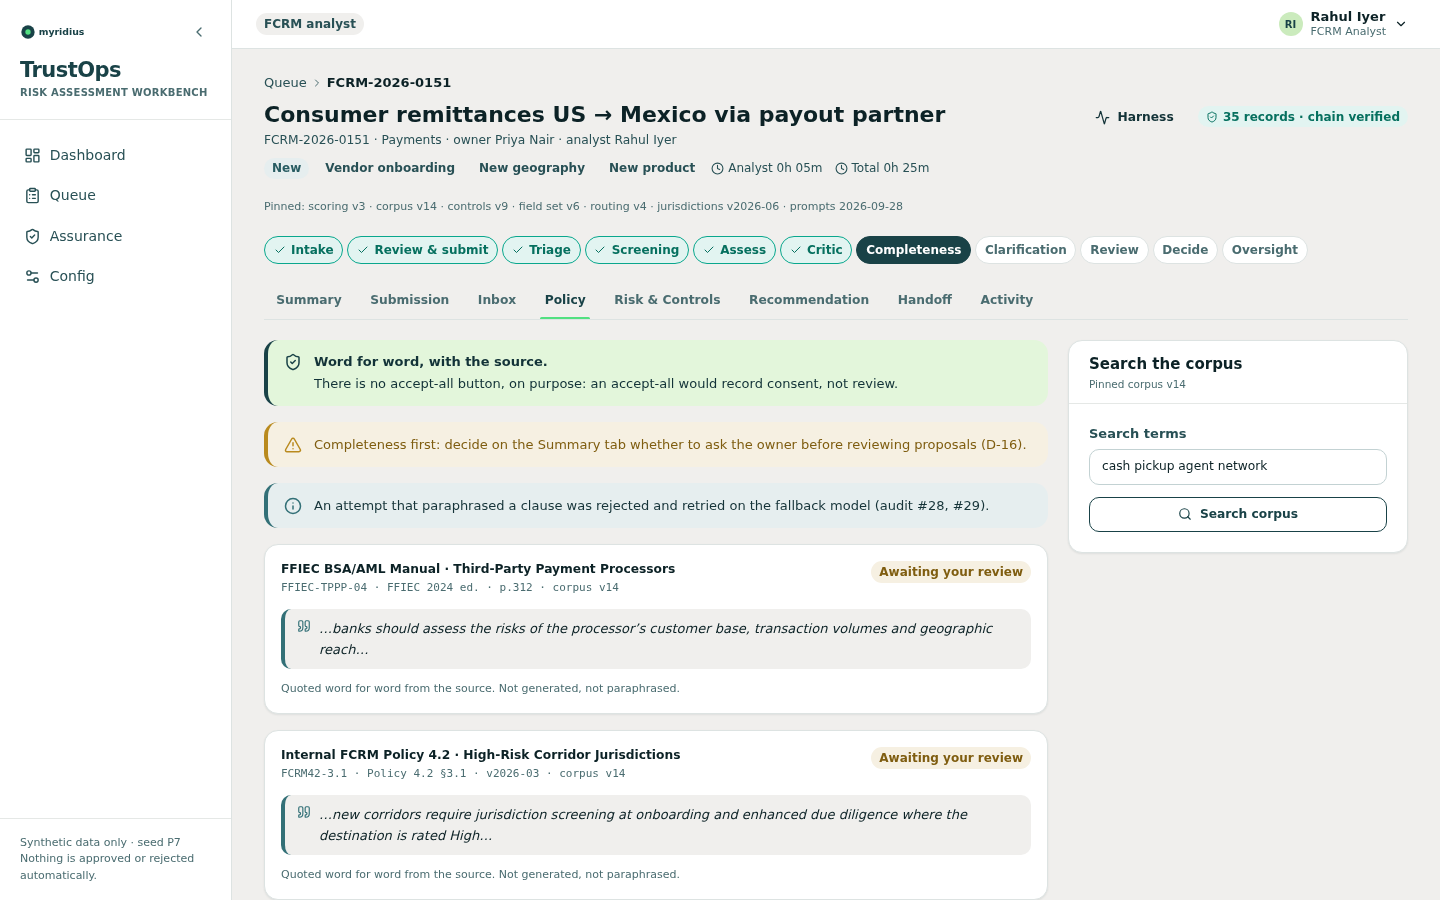
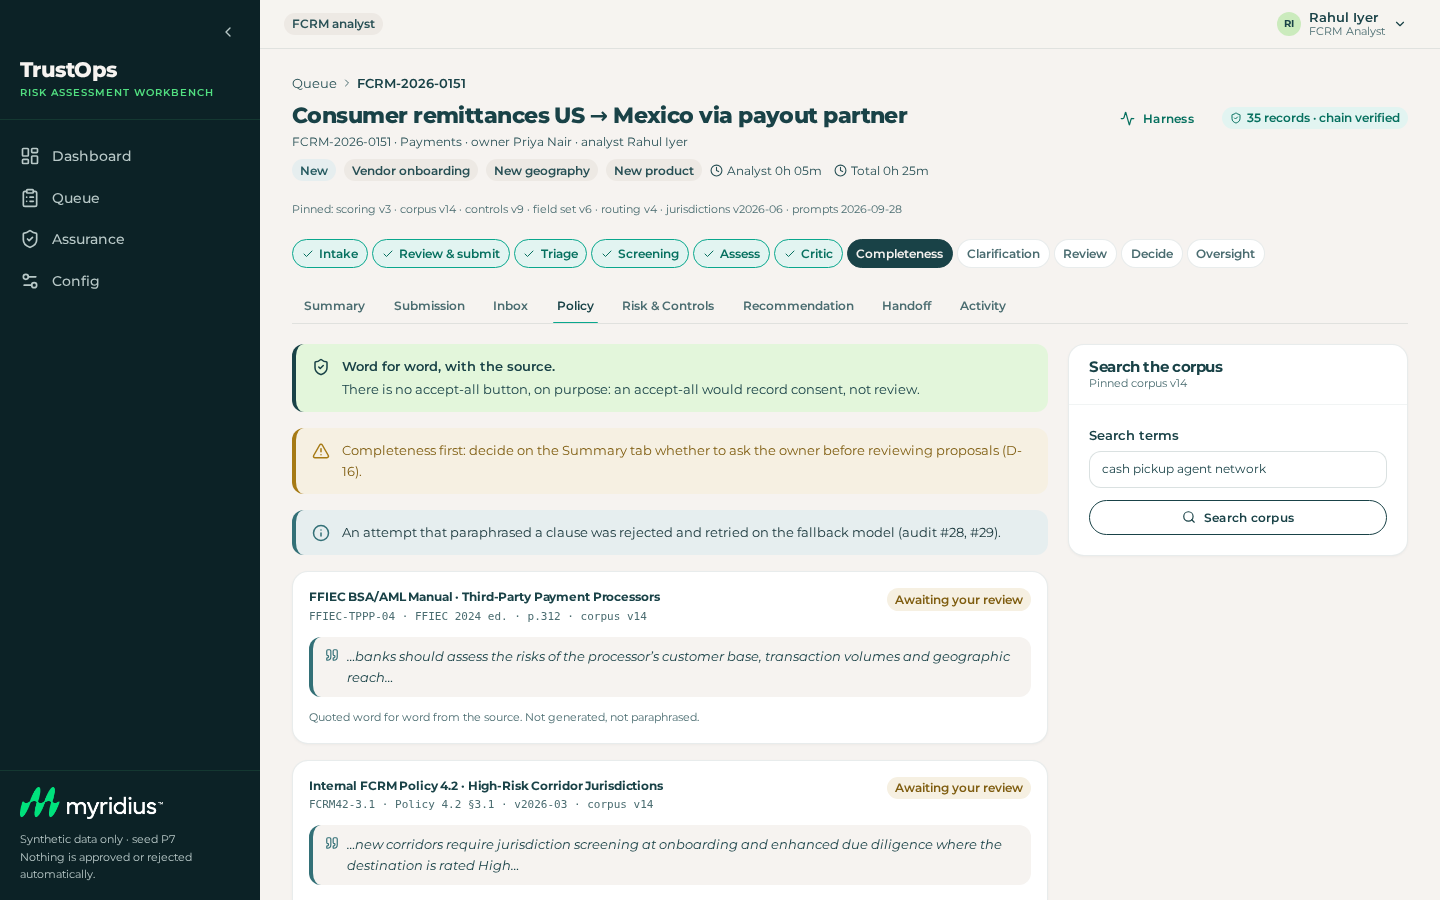
docs(arch): bring the design docs and screenshots up to the brand re-skin [ADR-67]
ADR-67 re-skinned the web and moved the owner's home from / to /po; the
UX decisions, design C's route table and RUNNING.md still described the
old look and route, and the screenshots showed the old skin.
- ux-decisions.md: UX-1 (role homes, / redirects), UX-3 (sign-out lands
  on a plain /login), UX-16 (new warning colour, the 3.0:1 primary button
  exception), UX-17 (the brand guide), new UX-19 (the AI mark), the brand
  guide as a design input; screenshots retaken on 8 October plus sign-in
- design C: the as-built note, route table (/ and /po), logout, AiMark
- RUNNING.md: Priya's home is /po
- architecture README: 19 UX decisions

Stage: Design
Gate: G-C1 make check: backend, OPA and env green (7731 unit tests); web 240 of 241, the one failure a LiveMode.test.tsx findBy timeout under the parallel run that passes 7 of 7 alone three times; docs-only change
Refs: ADR-67, ADR-06, ADR-10

diff --git a/trustops/docs/architecture/ux-decisions.md b/trustops/docs/architecture/ux-decisions.md
@@ -14,14 +14,17 @@ flowchart LR
   G1 --> MSW["Web built against MSW<br/>mock backend from the seed"]
   MSW --> R["Web route names become<br/>the API contract (ADR-30)"]
   MSW --> T["vitest-axe, contrast test,<br/>Playwright scenes"]
+  BG["Myridius brand guide<br/>(7 October)"] --> SKIN["Re-skin, look and feel only<br/>(ADR-67)"]
+  MSW --> SKIN
 ```
 
 | Tool | What it was used for | Where it is |
 |---|---|---|
-| The BA's React prototype (FCRM_v2) | The information architecture: which screens each role has, the tabs inside a case, the Myridius design tokens, the domain components worth keeping | `../FCRM_v2` (outside this repo); its analysis in `docs/requirements/source/05-prototype-teardown.html` and `docs/requirements/research/04-prototype-fcrm-v2-notes.md` |
+| The BA's React prototype (FCRM_v2) | The information architecture: which screens each role has, the tabs inside a case, the first design tokens, the domain components worth keeping | `../FCRM_v2` (outside this repo); its analysis in `docs/requirements/source/05-prototype-teardown.html` and `docs/requirements/research/04-prototype-fcrm-v2-notes.md` |
 | Walkthrough v2 (the BA and architect, 1 October) | The 21-scene story every screen has to tell, with the users, cursor path and numbers. It also runs as a click-through prototype | `docs/requirements/source/04-walkthrough.html`; the scene list in `docs/requirements/research/06-walkthrough-seed-extraction.md` |
 | Claude Code plan subagents | Turned the teardown, walkthrough and decision log into the routing table, component library, state rules, error states and accessibility baseline of design C | `design/C-web-tests-ops-sdlc.md` |
 | MSW mock backend generated from the seed | A clickable web before any service existed (`npm run dev:msw`); case 0151 is a live state machine in the mock, so the whole story can be walked and tested | `src/frontend/src/mocks` |
+| The Myridius brand guide | The look: typeface, palette, logo, button and input shapes, the wave ornament. Applied on 7 October as a re-skin that changed no copy, DOM role or aria attribute | ADR-67; `src/frontend/src/design/tokens.css`, `public/brand-mark*.png` |
 | Mermaid | Every diagram in `docs/architecture` | this folder |
 | vitest-axe, an accessibility pass in the live Playwright sweep, a contrast test | Checked the accessibility decisions instead of only stating them | `src/frontend/src/test/axe.ts`, `src/frontend/e2e/sweep-live/06-a11y.spec.ts`, `src/frontend/src/test/design/contrast.test.ts` |
 
@@ -31,9 +34,9 @@ Figma and Excalidraw, which the brief suggests, were not used: a working React p
 
 | # | Decision | Why | Where it holds | Ref |
 |---|---|---|---|---|
-| UX-1 | **Three separate workspaces, one per role**, each with its own navigation and home: the owner (Dashboard, My Queue, a case with six tabs, Integrations), the analyst (Dashboard, Queue, an eight-tab workbench, Assurance, Config), the committee (a queue and a three-tab case). A role that opens another role's URL lands on its own home, not a 403 page | Each persona has a different job (`personas.md`). Redirecting rather than refusing means nothing on screen hints at what another role can see | `src/frontend/src/app/router.tsx` | design C 1.2 |
+| UX-1 | **Three separate workspaces, one per role**, each with its own navigation and home: the owner (Dashboard, My Queue, a case with six tabs, Integrations), the analyst (Dashboard, Queue, an eight-tab workbench, Assurance, Config), the committee (a queue and a three-tab case). Each role has a home of its own, `/po`, `/analyst` and `/committee`, and `/` sends a signed-in person to theirs. A role that opens another role's URL lands on its own home, not a 403 page | Each persona has a different job (`personas.md`). Redirecting rather than refusing means nothing on screen hints at what another role can see | `src/frontend/src/app/router.tsx`, `app/guards/HomeRedirect.tsx` | design C 1.2, ADR-67 |
 | UX-2 | **The owner never sees a score, band, rating, vote or pack**, and the screen has no locked placeholders where they would be: the fields are absent, not hidden | Owners get plain-language progress, not risk terms. A hidden field can leak through the network tab, so the response shape itself has no such field | `features/po/**` may not import score-bearing code (ESLint); `case_po` contracts; S1's PO guard | ADR-32, D-62 |
-| UX-3 | **Sign-in is a real login, and "switch user" is a re-login**. The prototype's persona switcher, which re-rendered one case under another role's permissions, is gone. In demo mode "Sign in with corporate SSO" opens a picker of seeded users | A client-side role toggle cannot demonstrate a server-side fence | `features/auth/LoginPage.tsx` | ADR-10, design C C-05 |
+| UX-3 | **Sign-in is a real login, and "switch user" is a re-login**. The prototype's persona switcher, which re-rendered one case under another role's permissions, is gone. In demo mode "Sign in with corporate SSO" opens a picker of seeded users. Signing out on purpose lands on a plain sign-in page; only an expired session brings the person back to where they were | A client-side role toggle cannot demonstrate a server-side fence | `features/auth/LoginPage.tsx`, `auth/AuthProvider.tsx` | ADR-10, ADR-67, design C C-05 |
 | UX-4 | **One decision per item, no bulk accept.** Every clause, factor, control rating and critic finding has its own accept, override or remove action | The analyst must not rubber-stamp the AI's work (rule 2); the prototype allowed a bulk accept in spirit | Policy and Risk & Controls tabs; Guard 7 | BA rule 2, D-19 |
 | UX-5 | **Every override, removal, re-run, unlock or vote carries a typed reason**, entered in one shared `ReasonDialog` that shows what the change does before it is saved. The web asks for 20 characters; the server refuses fewer than 10 | One component means one rule everywhere. The preview (S2's `/simulate` for a control override) shows the analyst the band change before they commit. The server's floor is lower so the guard never refuses what S1 already accepted | `components/domain/ReasonDialog.tsx`, `components/ui/Form.tsx` (`REASON_MIN`) | BA rule 6, ADR-22 |
 | UX-6 | **No source, no claim.** Every extracted or proposed value carries a visible `SourceChip` (document page and line, clause, record) and a `ProvenanceTag` (Extracted, Reused from case, Owner answer, Owner declared, Analyst override, Jurisdiction list) | Analysts trust a proposal they can check in one click. A label is always visible, never a tooltip, so it survives a screenshot in an audit | `components/domain/SourceChip.tsx`, `ProvenanceTag.tsx` | BA rule 8 |
@@ -46,15 +49,20 @@ Figma and Excalidraw, which the brief suggests, were not used: a working React p
 | UX-13 | **No business arithmetic in the browser**: bands, scores, completion, clocks and tallies come from the server. The prototype computed completion three different ways in the client | One number, one source. `lib/bands.ts` only maps a band number to its label and colour | `src/frontend/CLAUDE.md` | ADR-06 |
 | UX-14 | **Server-side configuration drafts with a preview and a publish**, one section at a time, every published version kept | Two analysts see the same draft; a case keeps the versions it was judged under | `features/analyst/config` | ADR-47, ADR-52 |
 | UX-15 | **Live updates by stream, with an honest fallback**: one shared event stream per case; when it drops, a banner says "Live updates paused" and the screen polls | The workbench reacts to agents finishing; the user is told when it is not live | `api/sse`, `useStreamStatus` | design C C-03 |
-| UX-16 | **Accessibility to WCAG 2.1 AA**: keyboard reach for every action, focus-trapped modals, WAI-ARIA tabs, polite live regions, colour never the only signal (a band badge carries its number and label), reduced motion respected. The warning colour fails 4.5:1 on white, so it is used only on large text or on its tinted background | A compliance tool should not exclude its users. Design C asked for an axe check on every primitive; as built, axe runs in seven component and screen tests and in the live sweep's accessibility pass | `src/frontend/src/test/axe.ts`, `test/design/contrast.test.ts`, `e2e/sweep-live/06-a11y.spec.ts` | design C 1.8 |
-| UX-17 | **Light theme only, Myridius tokens, no hard-coded colours** outside `design/tokens.css` | The prototype and brand are light only; one token file keeps the contrast test meaningful | `src/frontend/src/design/tokens.css` | ADR-06, D-97 |
+| UX-16 | **Accessibility to WCAG 2.1 AA**: keyboard reach for every action, focus-trapped modals, WAI-ARIA tabs, polite live regions, colour never the only signal (a band badge carries its number and label), reduced motion respected. Body-size text is at least 4.5:1: the warning colour (3.5:1 on white) is used only for large text, icons and borders or on its tinted background, and body-size warning text has its own darker token. The one accepted exception is the brand's primary button, a white label on Virtual Tide at 3.0:1, for button labels only | A compliance tool should not exclude its users. Design C asked for an axe check on every primitive; as built, axe runs in seven component and screen tests and in the live sweep's accessibility pass | `src/frontend/src/test/axe.ts`, `test/design/contrast.test.ts`, `e2e/sweep-live/06-a11y.spec.ts` | design C 1.8, ADR-67 |
+| UX-17 | **The Myridius brand guide, light theme only, no hard-coded colours** outside `design/tokens.css`: Montserrat (self-hosted), a linen canvas, Carbon Moss dark surfaces (side navigation, login hero, monitor header), Virtual Tide as the one accent, pill-shaped buttons and inputs, the brand's wave ornament and logo. Token names follow the guide, so a stale class name produces no colour rather than the wrong one | The first tokens came from the prototype and disagreed with the brand guide; the re-skin changed only the look, so every test of behaviour and accessibility still applies. One token file keeps the contrast test meaningful | `src/frontend/src/design/tokens.css`, `components/ui/WaveOrnament.tsx`, `BrandMark.tsx` | ADR-67 (amends ADR-06), D-97 |
 | UX-18 | **Out of scope on purpose**: mobile layout, notification settings, a PO "AI configuration" page (it would let an owner tune the agents that assess them) and the prototype's Templates page (now a required-fields card in Review & submit). SharePoint is listed on Integrations as "not connected" | Scope for nine days; the AI configuration page broke the rule that a party cannot tune its own gate | `docs/requirements/source/00-README.md`; teardown section 15 | D-92, ADR-17 |
+| UX-19 | **AI-made content is marked**: an animated sparkle sits beside what a model proposed or drafted: extracted values (on the `Extracted` provenance tag), the proposed change types and values found, the completeness report, the clarification draft, the recommendation draft in the workbench and the committee pack, the examiner, the screening agent's fast-lane proposal in the queue, the AI entries in the owner's activity, and the harness views. It stays still for people who ask their system for reduced motion | A person should see at a glance what a model wrote and what a person confirmed, the visual side of "AI proposes, a person decides" | `components/ui/AiMark.tsx` (`AiMark`, `AiLabel`), `components/domain/ProvenanceTag.tsx` | ADR-67 |
 
 ## Screens
 
-Captured on 7 October 2026 from the web against its mock backend (`npm run dev:msw`, which serves the P7 seed with no stack and no model calls), at 1440 × 900, using the login page's demo scenarios for case FCRM-2026-0151. The figures are the seed's, not a live run's. Against the mock the monitor shows "reconnecting" because the mock serves no event stream.
+Captured on 8 October 2026, after the brand re-skin (ADR-67), from the web against its mock backend (`npm run dev:msw`, which serves the P7 seed with no stack and no model calls), at 1440 × 900, using the login page's demo scenarios for case FCRM-2026-0151. The figures are the seed's, not a live run's. Against the mock the monitor shows "reconnecting" because the mock serves no event stream.
 
-**The owner's case (UX-2, UX-4, UX-6).** Priya sees her case's progress in five plain stages, the change types the assistant proposed with the source of each, and her own completion. There is no score, band or rating anywhere on the page, because her responses carry none.
+**Sign-in (UX-3, UX-17).** The brand's dark hero with the wave ornament and logo, and one way in: corporate SSO, which opens the seeded-user picker in demo mode. The dashed box is the mock backend's scenario switch and never appears against the live stack.
+
+![Sign-in page](img/ux/login.png)
+
+**The owner's case (UX-2, UX-4, UX-6, UX-19).** Priya sees her case's progress in five plain stages, the change types the assistant proposed (marked with the AI sparkle) with the source of each, and her own completion. There is no score, band or rating anywhere on the page, because her responses carry none.
 
 ![Owner's case overview](img/ux/po-case-overview.png)
 
@@ -86,7 +94,7 @@ Captured on 7 October 2026 from the web against its mock backend (`npm run dev:m
 
 The teardown (`docs/requirements/research/04-prototype-fcrm-v2-notes.md`, section 15) lists the prototype's defects. The ones that changed the UX: per-item confirmation and boundary acknowledgement were not enforced (UX-4, and the analyst's Acknowledge action); the committee pack was live rather than frozen (now a hashed, versioned pack); a vote's choice leaked through the API before reveal (UX-9); completion had three client-side formulas (UX-13); the owner could tune the agents that assessed them (UX-18); notifications were never produced (out of scope, not faked).
 
-What was kept: the three-role information architecture, the token layer, and the domain components (`ScoreBadge`, `ProvenanceTag`, `RiskMatrix`, `StageTracker`, `CompletionRing`, the committee vote panel), rebuilt from scratch with tests (ADR-06).
+What was kept: the three-role information architecture and the domain components (`ScoreBadge`, `ProvenanceTag`, `RiskMatrix`, `StageTracker`, `CompletionRing`, the committee vote panel), rebuilt from scratch with tests (ADR-06). The prototype's token layer was kept at first and replaced by the brand guide's on 7 October (ADR-67).
 
 ## Where this is checked
 

diff --git a/trustops/docs/architecture/design/C-web-tests-ops-sdlc.md b/trustops/docs/architecture/design/C-web-tests-ops-sdlc.md
@@ -9,6 +9,7 @@
 > - **C-08 is reversed**: tests never sit beside source; they live under `tests/unit` and `tests/integration` (Python) and `src/frontend/src/test` (web).
 > - **C-09 and C-11**: `make nightly` is not wired, and the Claude Code hook scripts are committed but not registered; the git hooks are the enforced commit gate. Eight containers publish only the gateway on 8080 (ADR-26, ADR-63).
 > - **C-04**: the observer's web is the monitor only (ADR-64). The UX decisions are collected in `docs/architecture/ux-decisions.md`.
+> - **The look, sections 1.2, 1.3, 1.6 and 1.7**: the web is re-skinned to the Myridius brand guide (Montserrat, a linen canvas, Carbon Moss dark surfaces, Virtual Tide as the one accent, pill-shaped controls). The owner's home moved from `/` to `/po`, and `/` now sends anyone signed in to their own home. A deliberate sign-out lands on a plain `/login`. An animated AI mark sits beside every AI-proposed or AI-drafted item (ADR-67). The tables below are updated for these.
 
 Status: design for implementation by Claude Code subagents, 3 Oct 2026. Six build days remain (submission 9 Oct).
 Inputs: A-problem-statement, 00-synthesis, C-blueprint-flow (incl. v2 update), D-prototype (§1, §13, §14, §15), F-walkthrough-seed, CLAUDE.md, FCRM_v2/src/index.css.
@@ -102,7 +103,8 @@ All routes are under `AppShell` except `/login` and `/monitor/*`. Role guards re
 | Role | Path | Screen | Tabs / notes |
 |---|---|---|---|
 | any | `/login` | LoginPage | SSO button → demo user picker (C-05) |
-| PO | `/` | PO Dashboard | KPIs, My cases |
+| any | `/` | HomeRedirect | sends a signed-in person to their own home: `/po`, `/analyst` or `/committee` (ADR-67) |
+| PO | `/po` | PO Dashboard | KPIs, My cases (was `/` until ADR-67) |
 | PO | `/queue` | My Queue | filters, resume draft |
 | PO | `/case/new` | creates a case then redirects to `/case/:id/documents` | case ID issued first (scene 2) |
 | PO | `/case/:id` | PO Case | redirects to `overview`; tabs: `overview` `documents` `review` `inbox` `activity` `conditions` |
@@ -125,7 +127,7 @@ Templates and Settings (prototype PO nav) are out: Templates becomes a read-only
 2. Login: `POST /api/fcrm/auth/login {username, password}` (seeded demo users have passwords from `seed.json.users[].demo_password`, synthetic). In demo mode the SSO button opens the picker; in non-demo mode it posts the form. The response carries `access_token` (exp 15 min), `role`, `user`, and sets the refresh cookie (exp 8 h).
 3. `client.ts` middleware adds `Authorization: Bearer`, `X-Trace-Id` (uuid per page load, propagated to spans) and retries once on 401 after a refresh. Concurrent refreshes are deduplicated.
 4. Role comes from the token claim `role`; the UI uses it only for navigation and layout. Field-level visibility is never computed client-side: a PO payload has no score fields to hide.
-5. Logout: `POST /api/fcrm/auth/logout` clears the cookie; the query cache is cleared; SSE closed.
+5. Logout: `POST /api/fcrm/auth/logout` clears the cookie; the query cache is cleared; SSE closed. A deliberate sign-out lands on a plain `/login` with no `?next=`; only an expired session carries `?next=` back to where the person was (ADR-67).
 6. The identity fixes from CLAUDE.md (refresh accepted as access, OTP logging, hard-coded secrets) are design B's; the web client's tests assert that a refresh token in the `Authorization` header is rejected (black-box check BB-11).
 
 ### 1.4 API surface (proposed names, bind to design B) and the SSE hook
@@ -176,6 +178,7 @@ Button · IconButton · Card · Badge (tones: neutral, success, info, warning, d
 Domain components (`components/domain`):
 - `SourceChip` — "case p.4 l.12" style chip; click opens the document viewer at page:line. Renders nothing when a value has no source (rule: no source, no claim).
 - `ProvenanceTag` — Extracted · Reused from FCRM-2026-0118 · Owner answer · Owner declared (was …) · Analyst override · Jurisdiction list. Always a visible label, never a tooltip.
+- `AiMark` (`components/ui/AiMark.tsx`) — the animated sparkle beside every AI-proposed or AI-drafted item, so a person can tell at a glance what a model wrote and what a person confirmed; it keeps a still form under `prefers-reduced-motion` (ADR-67).
 - `ScoreBadge` — numeric score + "Band n of 4 (range)" + route. Ranges and labels come from `GET scoring/models/{v}` for the case's pinned version. Never imported by `features/po/*` (an ESLint `no-restricted-imports` rule enforces this).
 - `CompletionRing` — % with threshold tick and "n of m fields · always-required k of 6".
 - `StageTracker` — intake → review & submit → triage → screening → assess → critic → completeness → clarification → review → decide → oversight, collapsed to the role's view (PO sees Draft · Submitted · Under assessment · Decision · Closed).
@@ -222,7 +225,7 @@ Format per screen: reads · actions · gates shown (with the rationale text the 
 - Copy: "One governed place for change risk assessments" · "Your role and what you can see are set by the bank's directory, not by this app."
 - Gate: none. Must-not-see: nothing role-specific before login.
 
-### 2.2 PO Dashboard (`/`)
+### 2.2 PO Dashboard (`/po`)
 - Reads: `cases/dashboard` → KPIs "5 active · 1 awaiting my answer · 3.3 d avg intake to decision · 3 open conditions"; "My cases" rows 0150, 0146, 0139, 0121, 0109 (Case · Change · Stage · Next action). Banner "Starting a new change? Upload what you already have first…".
 - Actions: `+ New case` → `POST cases` → `/case/:id/documents`. Row → case.
 - Must-not-see: band, score, analyst notes, committee state. The DTO has no such fields; a vitest snapshot of the PO dashboard DTO type asserts the absence (`expectTypeOf<PODashboard>().not.toHaveProperty('band')`).

diff --git a/trustops/RUNNING.md b/trustops/RUNNING.md
@@ -167,7 +167,7 @@ Every seeded user shares one password, `demo-password-2026` (override with `make
 
 | Persona | Log in as | Home | Sees |
 |---|---|---|---|
-| Product owner | Priya Nair, `pnair` (also `tgold`, `skim`, `mros`, `ldia`) | `/` | her cases, documents, the questions FCRM asks her, conditions, the plain outcome. **Never** a score, band, rating, critic finding, vote or harness event; 403 on the monitor and on every analyst, scoring and decision route |
+| Product owner | Priya Nair, `pnair` (also `tgold`, `skim`, `mros`, `ldia`) | `/po` | her cases, documents, the questions FCRM asks her, conditions, the plain outcome. **Never** a score, band, rating, critic finding, vote or harness event; 403 on the monitor and on every analyst, scoring and decision route |
 | FCRM analyst | Rahul Iyer, `riyer` (also `mshah`, `dbrooks`) | `/analyst` | the queue, the workbench for a case (summary, submission, inbox, policy, risk and controls, recommendation, handoff, activity), Assurance (ask the examiner, overrides, watchlist, agent quality), Configuration (eight sections), the harness monitor |
 | Risk committee | Ana Mendes `amendes`, Joseph Okafor `jokafor`, Lin Chen `lchen` | `/committee` | the packs released to them, the pack (read-only), questions, their own vote. Other votes stay hidden until all three are cast |
 | Observer | Panel Observer, `observer` | `/monitor/<case>` | the harness monitor only (ADR-19): it is the one screen the web gives this role, and the monitor of a case with no run says so as information. No pack, no audit records, no Assurance screens. The API's OPA rows would still answer this token on `GET /audit/agent-quality` (agent quality is not case data), but no observer page calls it |
@@ -192,7 +192,7 @@ The 21 scenes are the walkthrough's (`docs/requirements/research/06-walkthrough-
 
 | # | Scene | As | Where | Do | Expect |
 |---|---|---|---|---|---|
-| 1 | Sign in | Priya | `/login`, then `/` | sign in | the dashboard: active cases, awaiting my answer, average days, open conditions, My cases. No risk number anywhere |
+| 1 | Sign in | Priya | `/login`, then `/po` | sign in | the dashboard: active cases, awaiting my answer, average days, open conditions, My cases. No risk number anywhere |
 | 2 | New case | Priya | `/queue`, then `/case/FCRM-2026-0151` | open the seeded draft | the case id, stage Intake, tabs Overview, Documents, Review, Inbox, Activity, Conditions. Nothing is on record until the first write; the first upload opens the run (`case.created`, `workflow.started`) |
 | 3 | Upload | Priya | `/case/FCRM-2026-0151/documents` | click "Use the demo's two files" (or Browse your own PDFs) | both files go Stored, Scanned, Read; the Assistant card narrates. H3 converts to Markdown with page:line anchors after Guard 1 (injection scan, PII masking); H2 runs the intake agent once per document (cheap tier). Tens of seconds, not instant. A scanned PDF is refused (no OCR) |
 | 4 | Proposals | Priya | `/case/.../overview` | Confirm or Remove each proposed change type (a removal needs a reason); read the "Values found" with their source chips | proposed change types (the demo expects vendor onboarding, new geography, new product) and the values each with a page and line. Confirming the last type resolves the field set; the case shows how many fields are required and how many are filled |

diff --git a/trustops/docs/architecture/README.md b/trustops/docs/architecture/README.md
@@ -9,7 +9,7 @@ This folder is the brief's `/docs/architecture` and the evidence for stage 2, De
 | The system on one page | [c4-context.md](c4-context.md), then [c4-container.md](c4-container.md): eight containers as built (ADR-26) |
 | How a case moves through it | [sequences/README.md](sequences/README.md): one sequence per stage of the flow, mapped to the 21 demo scenes |
 | The data model | [data-model.md](data-model.md): an overview diagram, then every collection with its owning service and contract |
-| The user experience and how it was decided | [ux-decisions.md](ux-decisions.md): 18 decisions, the tools behind them, screenshots of the key screens, what the prototype taught |
+| The user experience and how it was decided | [ux-decisions.md](ux-decisions.md): 19 decisions, the tools behind them, screenshots of the key screens, what the prototype taught |
 | Events between services | [event-catalogue.md](event-catalogue.md) |
 | How it survives failure | [resilience.md](resilience.md): twelve kill-and-restart drills and what they found |
 | The API contract | [openapi/api.json](openapi/api.json), generated by `make openapi`; the web's route test fails when it is stale |
